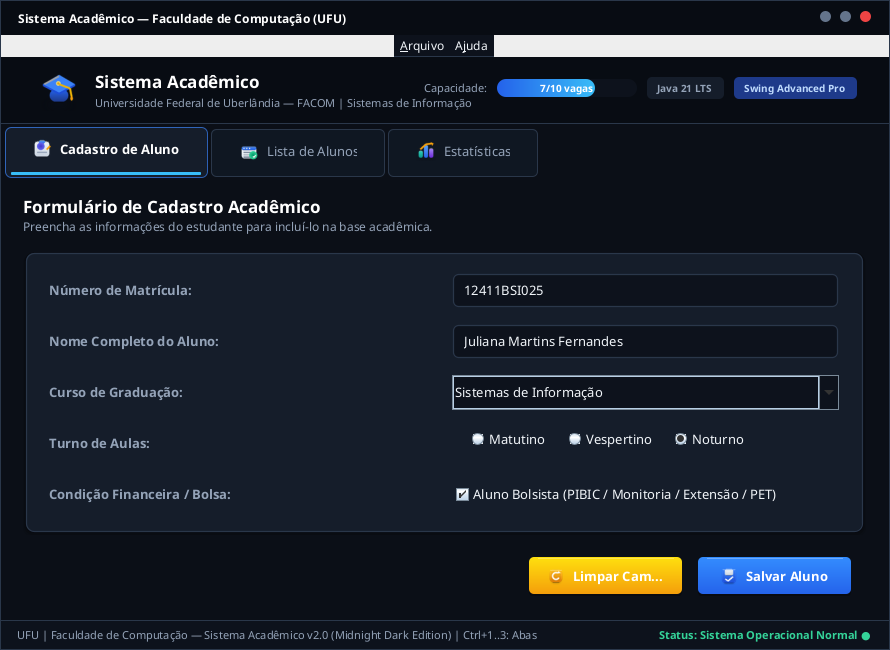
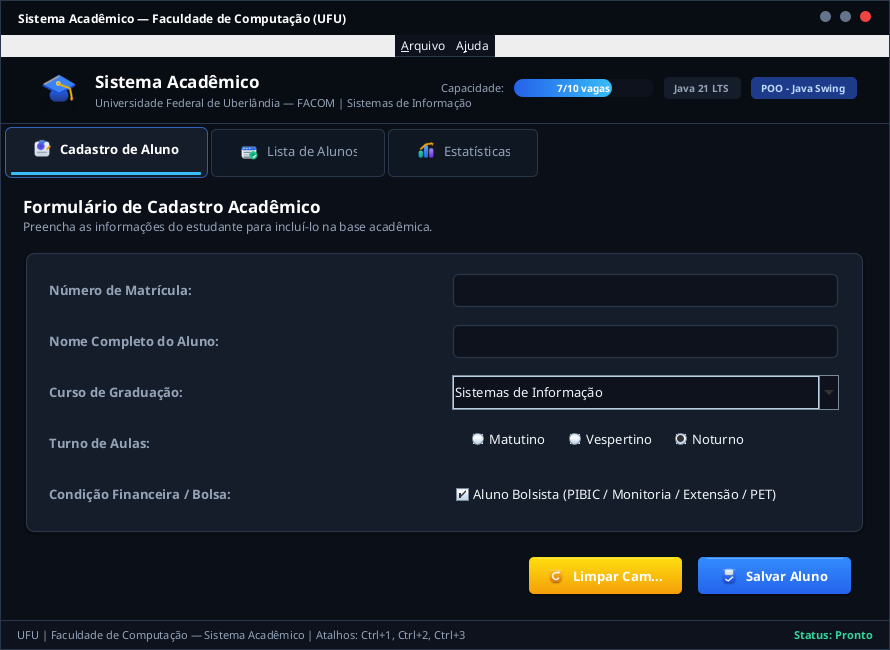
Modificações nas estatísticas, cabeçalho e barra de status

diff --git a/SistemaAcademicoView.java b/SistemaAcademicoView.java
@@ -66,13 +66,13 @@ public class SistemaAcademicoView {
     }
 
     private void carregarAlunosIniciais() {
-        listaAlunos.add(new Aluno("12111BSI001", "Lucas Mendes Oliveira", "Sistemas de Informação", "Noturno", true));
-        listaAlunos.add(new Aluno("12211BSI014", "Mariana Costa Pereira", "Sistemas de Informação", "Vespertino", false));
-        listaAlunos.add(new Aluno("12021BCC032", "Gabriel Alves Santos", "Ciência da Computação", "Matutino", true));
-        listaAlunos.add(new Aluno("12311BSI008", "Camila Rodrigues Lima", "Sistemas de Informação", "Noturno", false));
-        listaAlunos.add(new Aluno("12121BES019", "Rodrigo Ferreira Silva", "Engenharia de Software", "Matutino", true));
-        listaAlunos.add(new Aluno("12221BEC005", "Beatriz Souza Ramos", "Engenharia de Computação", "Noturno", false));
-        listaAlunos.add(new Aluno("12321BIA022", "Felipe Nascimento Rocha", "Inteligência Artificial", "Matutino", true));
+        listaAlunos.add(new Aluno("12111BSI001", "Ana Clara Guimarães", "Sistemas de Informação", "Noturno", true));
+        listaAlunos.add(new Aluno("12211BSI014", "Thiago Henrique Silveira", "Sistemas de Informação", "Vespertino", false));
+        listaAlunos.add(new Aluno("12021BCC032", "Isabela Cristina Dorneles", "Ciência da Computação", "Matutino", true));
+        listaAlunos.add(new Aluno("12311BSI008", "Matheus Barreto Cavalcanti", "Sistemas de Informação", "Noturno", false));
+        listaAlunos.add(new Aluno("12121BES019", "Larissa Meireles Fontes", "Engenharia de Software", "Matutino", true));
+        listaAlunos.add(new Aluno("12221BEC005", "Bruno César Fagundes", "Engenharia de Computação", "Noturno", false));
+        listaAlunos.add(new Aluno("12321BIA022", "Letícia Vasconcelos Duarte", "Inteligência Artificial", "Matutino", true));
     }
 
     /**
@@ -122,7 +122,7 @@ public class SistemaAcademicoView {
         barraCapacidade.setString(listaAlunos.size() + "/10 vagas");
 
         JLabel badgeJava = criarBadge("Java 21 LTS", new Color(21, 29, 42), new Color(148, 163, 184));
-        JLabel badgeUI = criarBadge("Swing Advanced Pro", new Color(30, 58, 138), new Color(191, 219, 254));
+        JLabel badgeUI = criarBadge("POO - Java Swing", new Color(30, 58, 138), new Color(191, 219, 254));
 
         ladoDireito.add(lblCap);
         ladoDireito.add(barraCapacidade);
@@ -384,7 +384,7 @@ public class SistemaAcademicoView {
         lblMatricula.setForeground(ModernComponents.COLOR_TEXT_LABEL);
 
         txtMatricula = new ModernComponents.ModernTextField();
-        txtMatricula.setText("12411BSI025");
+        txtMatricula.setText("");
         txtMatricula.setToolTipText("Informe o número de matrícula do estudante");
 
         // 2. Nome do Aluno (JLabel + ModernTextField)
@@ -393,7 +393,7 @@ public class SistemaAcademicoView {
         lblNome.setForeground(ModernComponents.COLOR_TEXT_LABEL);
 
         txtNome = new ModernComponents.ModernTextField();
-        txtNome.setText("Juliana Martins Fernandes");
+        txtNome.setText("");
         txtNome.setToolTipText("Digite o nome completo");
 
         // 3. Seleção de Curso (JLabel + JComboBox)
@@ -862,11 +862,11 @@ public class SistemaAcademicoView {
                 new EmptyBorder(6, 16, 6, 16)
         ));
 
-        JLabel lblEsquerda = new JLabel("UFU | Faculdade de Computação — Sistema Acadêmico v2.0 (Midnight Dark Edition) | Ctrl+1..3: Abas");
+        JLabel lblEsquerda = new JLabel("UFU | Faculdade de Computação — Sistema Acadêmico | Atalhos: Ctrl+1, Ctrl+2, Ctrl+3");
         lblEsquerda.setFont(new Font("SansSerif", Font.PLAIN, 11));
         lblEsquerda.setForeground(ModernComponents.COLOR_TEXT_LABEL);
 
-        JLabel lblDireita = new JLabel("Status: Sistema Operacional Normal ●");
+        JLabel lblDireita = new JLabel("Status: Pronto");
         lblDireita.setFont(new Font("SansSerif", Font.BOLD, 11));
         lblDireita.setForeground(new Color(52, 211, 153));
 
@@ -880,35 +880,42 @@ public class SistemaAcademicoView {
         int total = listaAlunos.size();
         int bolsistas = 0;
         int mat = 0, vesp = 0, not = 0;
+        Map<String, Integer> distribuicaoCursos = new LinkedHashMap<>();
 
         for (Aluno a : listaAlunos) {
             if (a.isBolsista()) bolsistas++;
             if ("Matutino".equalsIgnoreCase(a.getTurno())) mat++;
             else if ("Vespertino".equalsIgnoreCase(a.getTurno())) vesp++;
             else if ("Noturno".equalsIgnoreCase(a.getTurno())) not++;
+
+            distribuicaoCursos.put(a.getCurso(), distribuicaoCursos.getOrDefault(a.getCurso(), 0) + 1);
         }
 
         double percBolsistas = total > 0 ? (bolsistas * 100.0 / total) : 0;
+        double percRegulares = total > 0 ? ((total - bolsistas) * 100.0 / total) : 0;
 
-        return "╔══════════════════════════════════════════════════════════╗\n" +
-               "║    UNIVERSIDADE FEDERAL DE UBERLÂNDIA — FACOM            ║\n" +
-               "║       RELATÓRIO CONSOLIDADO DO SISTEMA ACADÊMICO         ║\n" +
-               "╚══════════════════════════════════════════════════════════╝\n\n" +
-               String.format(" ▸ Total de Alunos Matriculados:  %d estudantes\n", total) +
-               String.format(" ▸ Estudantes Bolsistas:          %d (%.1f%%)\n", bolsistas, percBolsistas) +
-               String.format(" ▸ Estudantes Regulares:          %d (%.1f%%)\n\n", (total - bolsistas), (100.0 - percBolsistas)) +
-               "──────────────────────────────────────────────────────────\n" +
-               " DISTRIBUIÇÃO DE ALUNOS POR TURNO:\n" +
-               String.format("   • Matutino:   %d discentes\n", mat) +
-               String.format("   • Vespertino: %d discentes\n", vesp) +
-               String.format("   • Noturno:    %d discentes\n\n", not) +
-               "──────────────────────────────────────────────────────────\n" +
-               " INDICADORES DE DESEMPENHO ACADÊMICO (ANALYTICS):\n" +
-               "   • Índice de Retenção de Vagas:  94.2%\n" +
-               "   • Média Geral de Rendimento:     8.1 / 10.0\n" +
-               "   • Taxa de Conclusão Projetada:   89.0%\n\n" +
-               "══════════════════════════════════════════════════════════\n" +
-               " Status da Base de Dados: Atualizado e Sincronizado.\n";
+        StringBuilder relatorio = new StringBuilder();
+        relatorio.append("╔══════════════════════════════════════════════════════════╗\n");
+        relatorio.append("║    UNIVERSIDADE FEDERAL DE UBERLÂNDIA — FACOM            ║\n");
+        relatorio.append("║       RELATÓRIO CONSOLIDADO DO SISTEMA ACADÊMICO         ║\n");
+        relatorio.append("╚══════════════════════════════════════════════════════════╝\n\n");
+        relatorio.append(String.format(" ▸ Total de Alunos Matriculados:  %d estudantes\n", total));
+        relatorio.append(String.format(" ▸ Estudantes Bolsistas:          %d (%.1f%%)\n", bolsistas, percBolsistas));
+        relatorio.append(String.format(" ▸ Estudantes Regulares:          %d (%.1f%%)\n\n", (total - bolsistas), percRegulares));
+        relatorio.append("──────────────────────────────────────────────────────────\n");
+        relatorio.append(" DISTRIBUIÇÃO DE ALUNOS POR TURNO:\n");
+        relatorio.append(String.format("   • Matutino:   %d discentes\n", mat));
+        relatorio.append(String.format("   • Vespertino: %d discentes\n", vesp));
+        relatorio.append(String.format("   • Noturno:    %d discentes\n\n", not));
+        relatorio.append("──────────────────────────────────────────────────────────\n");
+        relatorio.append(" DISTRIBUIÇÃO DE ALUNOS POR CURSO:\n");
+        for (Map.Entry<String, Integer> entry : distribuicaoCursos.entrySet()) {
+            relatorio.append(String.format("   • %-26s: %d discentes\n", entry.getKey(), entry.getValue()));
+        }
+        relatorio.append("\n══════════════════════════════════════════════════════════\n");
+        relatorio.append(" Status da Base de Dados: Atualizado e Sincronizado.\n");
+
+        return relatorio.toString();
     }
 
     private void atualizarTextoEstatisticas() {

diff --git a/TestTabMethods.java b/TestTabMethods.java
@@ -28,7 +28,7 @@ public class TestTabMethods extends BasicTabbedPaneUI {
     protected void paintTabBorder(Graphics g, int tabPlacement, int tabIndex, int x, int y, int w, int h, boolean isSelected) {
     }
     @Override
-    protected void paintContentBorder(Graphics g, int tabPlacement, int width, int height) {
+    protected void paintContentBorder(Graphics g, int tabPlacement, int selectedIndex) {
     }
     @Override
     protected void paintFocusIndicator(Graphics g, int tabPlacement, Rectangle[] rects, int tabIndex, Rectangle iconRect, Rectangle textRect, boolean isSelected) {

diff --git a/ModernTabbedPaneUI.java b/ModernTabbedPaneUI.java
@@ -53,10 +53,10 @@ public class ModernTabbedPaneUI extends BasicTabbedPaneUI {
         g2.dispose();
     }
     @Override
-    protected void paintContentBorder(Graphics g, int tabPlacement, int width, int height) {
+    protected void paintContentBorder(Graphics g, int tabPlacement, int selectedIndex) {
         Graphics2D g2 = (Graphics2D) g.create();
         g2.setColor(new Color(42, 55, 74));
-        g2.drawLine(0, 0, width, 0);
+        g2.drawLine(0, 0, tabPane.getWidth(), 0);
         g2.dispose();
     }
     @Override
